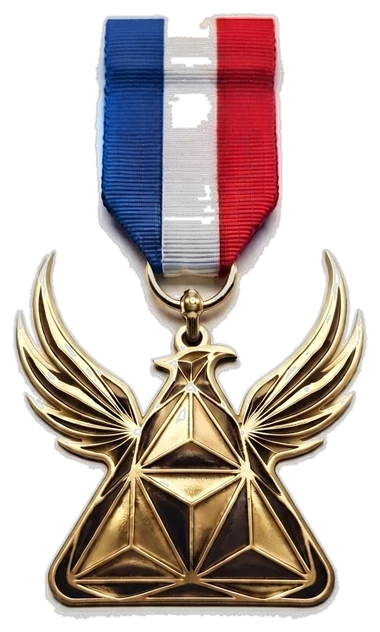
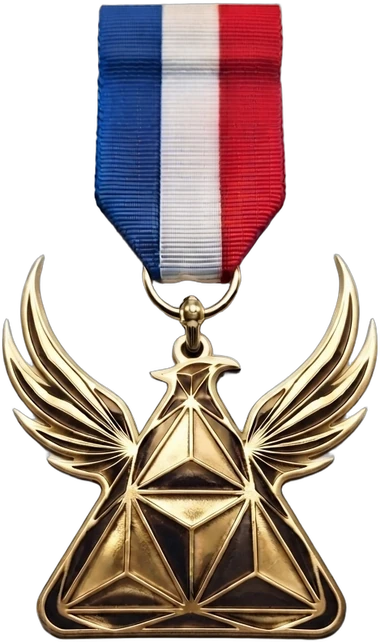
V131 : nouvelles médailles, médaille entière au-dessus du « Bonjour » (#192)
Claude-Session: https://claude.ai/code/session_01NStkfCttCkWn8HaycQvLWX

diff --git a/cr/index.html b/cr/index.html
@@ -11,7 +11,7 @@
 <link rel="manifest" href="../manifest.json">
 <meta name="apple-mobile-web-app-title" content="TRIGONE">
 <meta name="application-name" content="TRIGONE">
-<script src="../jumelage.js?v=131"></script>
+<script src="../jumelage.js?v=132"></script>
 <link rel="icon" type="image/png" sizes="192x192" href="icon-192.png?v=3">
 <link rel="apple-touch-icon" href="apple-touch-icon.png?v=3">
 <link href="../fonts/montserrat.css" rel="stylesheet"><!-- police hébergée avec TRIGONE : identique hors ligne -->
@@ -400,26 +400,22 @@ body.dark-mode .stats-valeur { color: #f5f5f5; }
 body.dark-mode .stats-label { color: #a3a3a3; }
 
 .P0-MEDAILLE-BADGE {
-  position: absolute;
-  top: 10px;
-  left: 10px;
-  z-index: 5;
-  width: 40px;
-  height: 40px;
-  padding: 3px;
-  border-radius: 50%;
-  background: rgba(255,255,255,0.9);
-  border: 1.5px solid var(--tg-border, #e8e8e8);
-  display: flex;
-  align-items: center;
-  justify-content: center;
-  cursor: default;
+  /* Médaille entière (ruban tricolore), centrée au-dessus du « Bonjour » ; un toucher affiche la distinction. */
+  display: block;
+  margin: 2px auto 6px;
+  height: 92px;
+  width: auto;
+  padding: 0;
+  border: 0;
+  background: none;
+  cursor: pointer;
+  filter: drop-shadow(0 0 10px rgba(255, 214, 150, 0.28)) drop-shadow(0 10px 16px rgba(0, 0, 0, 0.55));
   transition: transform 0.15s;
 }
-.P0-MEDAILLE-BADGE:active { transform: scale(0.93); }
+.P0-MEDAILLE-BADGE:active { transform: scale(0.94); }
 .P0-MEDAILLE-BADGE.HIDDEN { display: none; }
-.P0-MEDAILLE-BADGE img { width: 100%; height: auto; }
-body.dark-mode .P0-MEDAILLE-BADGE { background: rgba(36,36,36,0.9); border-color: #404040; }
+.P0-MEDAILLE-BADGE img { height: 100%; width: auto; display: block; }
+@media (max-height: 700px) { .P0-MEDAILLE-BADGE { height: 68px; margin-bottom: 4px; } }
 /* =================================================================== */
 
 /* ===================== ÉCRAN CODE PIN ===================== */
@@ -5151,9 +5147,6 @@ body.dark-mode .MER-LISTE-ITEM { border-color: #404040; background: #262626; }
 <div class="P0-GLOW P0-GLOW-b"></div>
 
 <div class="P0-INNER">
-<button type="button" id="P0-MEDAILLE-BADGE" class="P0-MEDAILLE-BADGE HIDDEN" onclick="AFFICHER_INFO_MEDAILLE_BADGE()">
-<img id="P0-MEDAILLE-IMG" src="" alt="Médaille TRIGONE">
-</button>
 <div class="P0-LOGO-WRAP" role="presentation">
 <img src="logo_cr_accueil.png" class="welcome-logo JUM-LOGO-CHOIX" alt="TRIGONE — Compte-rendu de mission" title="Revenir au choix Mise en route / Compte-rendu" onclick="JUMELAGE_CHOIX()">
 </div>
@@ -5172,6 +5165,9 @@ body.dark-mode .MER-LISTE-ITEM { border-color: #404040; background: #262626; }
 </div>
 <h1 class="HIDDEN" aria-hidden="true">Compte-rendu de mission</h1>
 <div class="P0-HERO">
+<button type="button" id="P0-MEDAILLE-BADGE" class="P0-MEDAILLE-BADGE HIDDEN" onclick="AFFICHER_INFO_MEDAILLE_BADGE()" aria-label="Ma distinction TRIGONE">
+<img id="P0-MEDAILLE-IMG" src="" alt="Médaille TRIGONE">
+</button>
 <p id="P0-BONJOUR" class="JUM-BONJOUR HIDDEN"></p>
 <button class="BTN-ACCUEIL" onclick="ENTRER()">LA MISSION COMMENCE ICI</button>
 <button type="button" id="BTN-DEPUIS-MER" class="BTN BTN-CONTINUE HIDDEN" onclick="OUVRIR_LISTE_MISES_EN_ROUTE()">📋 À partir d'une mise en route</button>
@@ -8510,7 +8506,7 @@ function UPDATE_MEDAILLE_BADGE() {
     if (!badge) return;
     var meilleure = GET_MEILLEURE_MEDAILLE();
     if (!meilleure) { badge.classList.add('HIDDEN'); return; }
-    var fichiers = { BRONZE: 'medaille-bronze-icone.webp', ARGENT: 'medaille-argent-icone.webp', OR: 'medaille-or-icone.webp' };
+    var fichiers = { BRONZE: 'medaille-bronze.webp', ARGENT: 'medaille-argent.webp', OR: 'medaille-or.webp' };
     var noms = { BRONZE: 'TRIGONE de Bronze', ARGENT: "TRIGONE d'Argent", OR: "TRIGONE d'Or" };
     var img = document.getElementById('P0-MEDAILLE-IMG');
     if (img) { img.src = fichiers[meilleure]; img.alt = noms[meilleure]; }
@@ -8525,7 +8521,7 @@ function AFFICHER_INFO_MEDAILLE_BADGE() {
     var images = { BRONZE: 'medaille-bronze-icone.webp', ARGENT: 'medaille-argent-icone.webp', OR: 'medaille-or-icone.webp' };
     var prochain = { BRONZE: 10, ARGENT: 20 };
     var count = GET_CR_COUNT();
-    var texte = count + ' compte-rendu' + (count > 1 ? 's' : '') + ' envoyé' + (count > 1 ? 's' : '') + '.';
+    var texte = count + (count > 1 ? ' comptes-rendus envoyés.' : ' compte-rendu envoyé.');
     if (prochain[meilleure]) {
         var reste = prochain[meilleure] - count;
         texte += '\n\nEncore ' + reste + ' mission' + (reste > 1 ? 's' : '') + ' pour la distinction suivante.';
@@ -11480,7 +11476,7 @@ function SET_UPDATE_SEEN_VERSION(cle, version) {
 // Numéro de version du code de CETTE appli. À augmenter à chaque publication, en même temps que
 // « appCodeVersion » dans updates-manifest.json : c'est ce qui permet à l'appli de savoir si elle est
 // déjà à jour (elle affiche alors les « Nouveautés ») ou en retard (elle demande la mise à jour).
-var APP_CODE_VERSION = 228;
+var APP_CODE_VERSION = 229;
 // Jumelage : numéro affiché « V1, V2… » ; APP_CODE_VERSION reste le compteur interne des mises à jour
 // (à augmenter avec appCodeVersion de cr/updates-manifest.json, sans jamais le faire redescendre).
 var APP_VERSION_AFFICHEE = APP_CODE_VERSION - 98;

diff --git a/jumelage.js b/jumelage.js
@@ -315,7 +315,6 @@
         '.JUM-CHOIX > .JUM-MODE { position: absolute; z-index: 3; bottom: calc(max(18px, env(safe-area-inset-bottom, 0px)) + 5px); left: calc(max(18px, env(safe-area-inset-left, 0px)) + 66px); width: 42px; height: 42px; background: #1a1a1a; color: #f5f5f5; border-color: rgba(255,255,255,0.18); }' +
         '.JUM-CHOIX.choisi > .JUM-MODE { opacity: 0; pointer-events: none; }' +
         /* Compte-rendu, téléphone : la médaille de l'accueil se décale pour laisser la place au bouton de compte. */
-        '@media (max-width: 1099px) { .P0-MEDAILLE-BADGE { left: 54px !important; } }' +
         '.JUM-CPT-MENU { position: fixed; z-index: 99988; width: min(320px, calc(100vw - 24px)); background: #fff; color: #1a1a1a; border-radius: 18px; padding: 6px; box-shadow: 0 18px 44px rgba(0,0,0,0.4);' +
             ' font-family: Montserrat, system-ui, sans-serif; animation: jum-menu 0.18s ease both; max-height: calc(100vh - 90px); overflow-y: auto; }' +
         '.JUM-CPT-TETE { display: flex; gap: 12px; align-items: center; padding: 12px 12px 10px; }' +
@@ -869,7 +868,7 @@
     // Dès l'ouverture (démarrage ou retour dans l'appli), TRIGONE vérifie s'il existe une publication plus récente
     // et se met à jour tout seul. Jamais au mauvais moment : uniquement sur l'accueil, sans fenêtre ouverte
     // (chaque appli le dit via JUMELAGE_PEUT_RECHARGER) ; sinon au prochain retour sur l'accueil.
-    var BUILD = 131, MAJ_DISPO = false, CLE_RECHARGE = 'trigone_recharge_build';
+    var BUILD = 132, MAJ_DISPO = false, CLE_RECHARGE = 'trigone_recharge_build';
     function peutRecharger() {
         if (document.visibilityState === 'hidden') return false;
         if (document.body && document.body.classList.contains('demo-active')) return false;

diff --git a/index.html b/index.html
@@ -5,7 +5,7 @@
 <meta name="viewport" content="width=device-width, initial-scale=1, viewport-fit=cover">
 <title>TRIGONE — Mise en route</title>
 <link rel="manifest" href="manifest.json">
-<script src="jumelage.js?v=131"></script>
+<script src="jumelage.js?v=132"></script>
 <meta name="theme-color" content="#ecebe7">
 <link href="fonts/montserrat.css" rel="stylesheet"><!-- police hébergée avec TRIGONE : identique hors ligne -->
 <link rel="apple-touch-icon" href="apple-touch-icon.png?v=3">
@@ -970,6 +970,6 @@ body.dark-mode .MER-BASCULE-ROLE { background: rgba(255,255,255,0.08); } body.da
     </div>
   </div>
 </div>
-<script src="app.js?v=131"></script>
+<script src="app.js?v=132"></script>
 </body>
 </html>

diff --git a/app.js b/app.js
@@ -1,7 +1,7 @@
 // ===================== TRIGONE MISE EN ROUTE — logique =====================
 var MER_VERSION = 1;          // version du format des fichiers .json échangés
 // Version du code de l'appli : à augmenter à chaque publication, avec « appCodeVersion » dans updates-manifest.json.
-var APP_CODE_VERSION = 178;
+var APP_CODE_VERSION = 179;
 // Numéro de version affiché (« V1 », « V2 »…) : repart de 1 au lancement de TRIGONE jumelé et suit ensuite chaque
 // publication. APP_CODE_VERSION reste le compteur interne des mises à jour (ne jamais le faire redescendre).
 var APP_VERSION_AFFICHEE = APP_CODE_VERSION - 48;

diff --git a/cr/sw.js b/cr/sw.js
@@ -1,6 +1,6 @@
 // Copie jumelée dans TRIGONE Mise en route (dossier cr/) : caches préfixés « trigone-cr- » ; ceux de
 // Mise en route (« trigone-mise-en-route- ») ne sont jamais effacés d'ici.
-const CACHE_NAME = 'trigone-cr-v520';
+const CACHE_NAME = 'trigone-cr-v521';
 const ASSETS = [
   './',
   './manifest.json',

diff --git a/sw.js b/sw.js
@@ -1,4 +1,4 @@
-const CACHE_NAME = 'trigone-mise-en-route-v185';
+const CACHE_NAME = 'trigone-mise-en-route-v186';
 const ASSETS = [
   './',
   './manifest.json',
